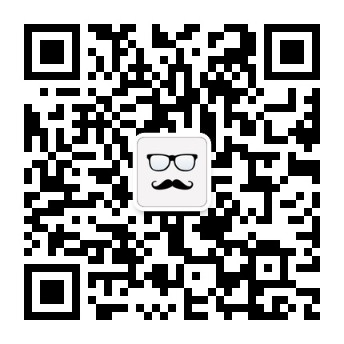
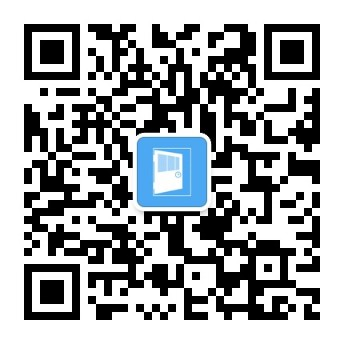
new - blog 《瞬息之间与时间之门》

Changed region(s): [[0.3779, 0.3779, 0.6105, 0.6105]]

diff --git a/_posts/2015-09-16-瞬息之间与时间之门.md b/_posts/2015-09-16-瞬息之间与时间之门.md
@@ -1,0 +1,46 @@
+---
+layout    : post
+title     : 瞬息之间与时间之门
+date      : 2015-09-16
+author    : mindwind
+categories: blog
+tags      : 瞬息 时间
+image     : /assets/article_images/2015-09-16.jpg
+elapse    : 95
+---
+
+
+今天公众号换新 LOGO 了，所以特地写篇应景的文章。
+原本用的是我自己的头像，但感觉和公众号的名字不太贴合，所以重新换了个贴题的 LOGO。
+为什么叫 [瞬息之间] 这是一个跟时间有关的话题。
+
+从大学毕业后参加工作，大概到第 5 年时我明显感觉走到了一个瓶颈。
+那时我是一名程序员，为金融和电信行业的软件系统写着程序。
+有时早上 10 点上班，晚上 11 点下班，有时下午 7 点去上班，早上 8 点下班（另一个守夜人的故事）。
+就这么在日升月落中学习成长着，直到我碰到了那扇门，那扇门让你彷徨、犹豫和迷茫。
+之前一起写程序的同伴，有人选择绕开走上了项目经理的道路，有人走上了技术售前的道路，有人走上了业务咨询的道路。
+而我在当时没有找到适合我的路，我还想走原来的路，只能打开门继续前行。
+
+经过了半年，换了一个城市，换了一个行业，换了一家公司，我终于打开第一道门重新走回了原来的路。
+而穿越那道门时，我感觉到了一种成长的质变，之前的 5 年都是在成长的量变中，直到穿过那道门质变发生。
+这种变化不是外在的，而是内心的感受与思想的认识，而引发这种变化的正是在时间的沉淀中积累，质变的那一刻正是所谓 [瞬息之间]。
+所以新的 LOGO 上有了一道门，开门的把手正是一个时钟。
+
+在程序员这个行业，编程的门槛随着技术工具的进步正在变得越来越低，所以有很多书堂而皇之得打着《21天精通xxx》的名号。
+最近也在微博上看到有之前做淘宝模特的女生也可以通过一个月的学习华丽转身为程序媛。
+我就疑惑真的这么简单么？我职业写程序写了 10 年了，这还不算学校里的学习时间。
+5 年前我开始写博客，写文字。这个社会是有以写文字为生的人，他们的职业叫作家，当然有些人也把一些职业写文字为生的人叫写手。
+我是以写代码为生的，写文字只是业余爱好，那么我和职业写手或作家之间到底有多大差距呢？
+
+伟大的作家海明威日产 500 字，在飞机上碰到一个网络小说写手，一小时写了 5 千字，5 千字一更，每日三更。
+他们都是职业的，但却不能通过产量来简单区分。一个程序员经过几年的职业训练，就能成长为一名代码写手，能熟练的写大量代码，
+而伟大的程序员写少而精的代码，和伟大的作家很接近。在我第 5 年遇到那扇门时，其阶段就是一名熟练的代码写手，
+我当时写了个程序统计了我自己当时独立完成的所有项目工程模块的代码行数，大概记得是在 50 万行左右，大约每年 10 万行，平均每天 300 多行。
+程序代码的产出是不均匀的，有时实现一个模块功能一次写上千行，然后又花上几天来测试它们，所以平均下来 300 多也算很多了。
+看一个采访 Linux 内核树维护者日均代码产量仅仅 10 行。
+正因为如此，我能清晰的感受到职业程序员在不同阶段的差异和业余程序员之间的本质差别。
+正如作为一个业余写文字的，我也感受到了如今的阶段比之熟练的写手都还差很远，
+虽然写了 5 年博客，其实频繁的时候一个月能写 3、4 篇，少的时候只写 1 篇，写作的训练量和职业写手差距很远。
+
+所以我相信这里面有一个时间积累沉淀的量变和质变关系，刚开始写作时连就一个主题一气呵成的写完都很难。
+现在勉强可以了，如果有一天脑洞大开，灵感爆发，一文五千，一天三篇的感觉啊，那一定是在这条路上打开了另一扇时间之门，享受那一刻的瞬息之间。
